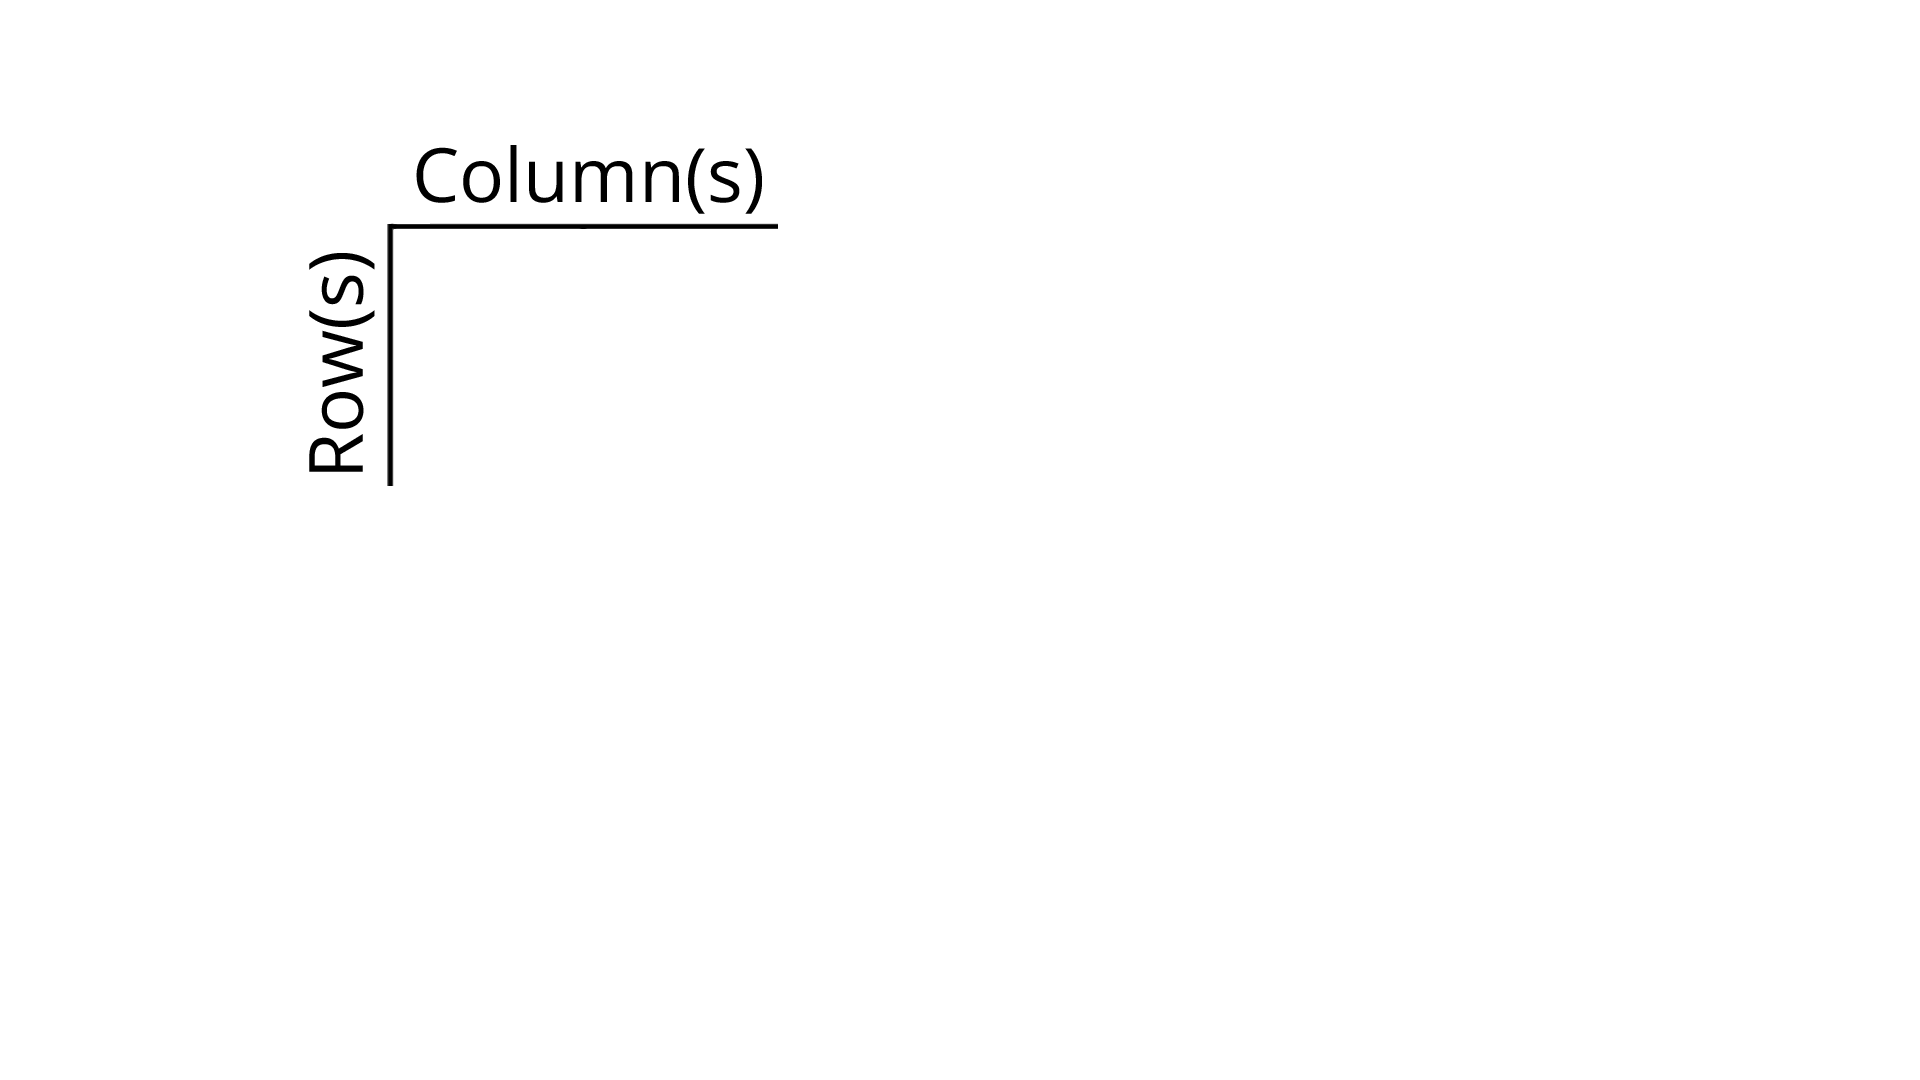
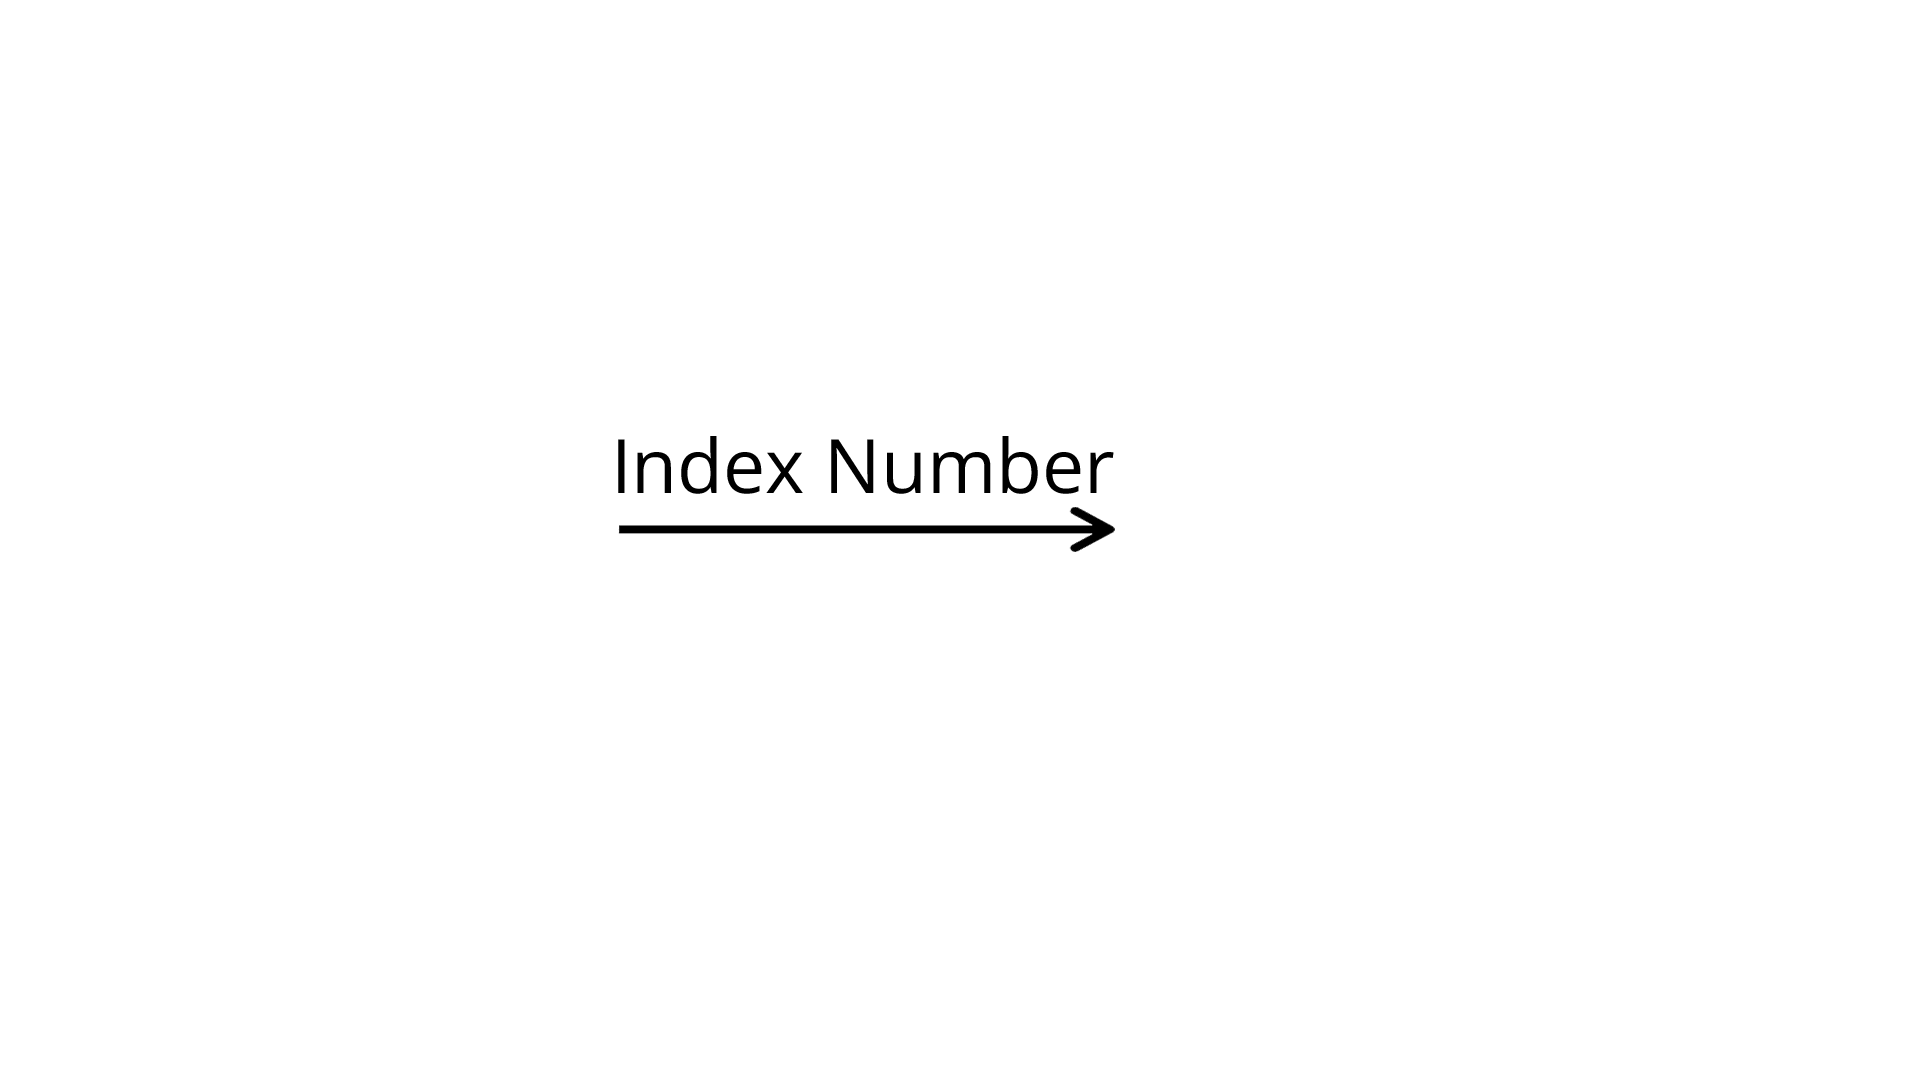
Added dynamic array

Changed region(s): [[0.3125, 0.3972, 0.5938, 0.5194], [0.1562, 0.2139, 0.2188, 0.4583], [0.2188, 0.1222, 0.4062, 0.2139]]

diff --git a/src/components/Array.js b/src/components/Array.js
@@ -1,17 +1,15 @@
-import react from "react";
-import "./Array.css";
-import { useState } from "react";
+import react from 'react';
+import './Array.css';
+import { useState } from 'react';
+
 function Textbox() {
   const [input, setInput] = useState();
   const [error, setError] = useState();
-  const [compDesc, setCompDesc] = useState("");
   const [isHovering, setIsHovering] = useState(false);
   const [isHoveringText, setIsHoveringText] = useState(false);
-  const [arrLab, setArrLab ] = useState();
-  const [row, setRow] = useState();
-  const [column, setColumn] = useState();
-  const [index1, setIndex1] = useState();
-  const [index2, setIndex2] = useState();
+  const [arrLab, setArrLab] = useState();
+  const [column, setColumn] = useState('hide-text');
+  const [array, setArray] = useState('hide-text');
 
   const handleMouseOver = () => {
     setIsHovering(true);
@@ -33,30 +31,22 @@ function Textbox() {
   const handleInput = () => {
     console.log(input);
 
-    if (input == "const array = [1];") {
-      console.log("YESSSS");
+    if (input == 'const array = [1];') {
+      console.log('YESSSS');
       setError(null);
       setArrLab('/images/array-lables.png');
-      setRow('0')
-      setColumn('0')
-      setIndex1('index-1');
-      setIndex2(null);
-    } 
-    else if (input == 'const array = [2];'){
-      setError(null);
-      setArrLab('/images/array-lables.png');
-      setRow('0')
-      setColumn('0')
-      setIndex1('index-1');
-      setIndex2('index-2');
-    }
-
-      else {
-      console.log("NOOOO");
+      setColumn('column');
+      setArray('index');
+    } else {
+      console.log('NOOOO');
       setError('Please Enter enter "const array = [1];"');
       setArrLab(null);
+      setColumn('hide-text');
+      setArray('hide-text');
     }
   };
+
+  const arr = [7, 1, 5, 6, 7, 8]; //need to find a way to take the input between the brackets (parse)
 
   return (
     <>
@@ -73,11 +63,10 @@ function Textbox() {
             <p className="textbox-description">
               *This textbox is acting as a source-code editor. A source-code
               editor is a program that captures and integrates the software code
-              for an application{" "}
+              for an application.{' '}
             </p>
           )}
         </div>
-
 
         <button
           onMouseOver={handleMouseOver}
@@ -88,31 +77,40 @@ function Textbox() {
           Compile
           {isHovering && (
             <p className="compile-description">
-              {" "}
+              {' '}
               *This button is acting as a compiler. A Compiler essentially
               converts the Source Code (the human readable language, in this
               case JavaScript) into Machine Code (the computer readable
-              language). This is how humans and computers generally communicate!
+              language).
             </p>
           )}
         </button>
 
-
         <h1 className="error">{error}</h1>
 
-
-       
-        <h1 className='arr-column'>{column}</h1>
-        <h1 className='arr-row'>{row}</h1>
-        <div className={index1}></div>
-        <div className={index2}></div>
-        <img className='arr-lab' src={arrLab} />
-
-      
-
-
-        
+        {/* <h1 className="arr-column">{column}</h1>
+        <h1 className="arr-row">{row}</h1> */}
+        <div className={array}>
+          {arr.map((currElement, index) => {
+            return (
+              <>
+                <div>{currElement}</div>
+              </>
+            );
+          })}
+          {console.log(inputText)}
+        </div>
+        <div className={column}>
+          {arr.map((currElement, index) => {
+            return (
+              <>
+                <div>{index}</div>
+              </>
+            );
+          })}
+        </div>
       </div>
+      <img className="arr-lab" src={arrLab} />
     </>
   );
 }

diff --git a/src/components/Array.css b/src/components/Array.css
@@ -1,12 +1,12 @@
 .textbox {
-  font-family: "Open Sans", sans-serif;
+  font-family: 'Open Sans', sans-serif;
   position: absolute;
   margin-top: 3%;
   width: auto;
   font-size: 5vw;
 }
 .textbox-description {
-  font-family: "Open Sans", sans-serif;
+  font-family: 'Open Sans', sans-serif;
   position: absolute;
   margin-top: 13%;
   width: 20%;
@@ -15,7 +15,7 @@
 }
 
 .compile {
-  font-family: "Open Sans", sans-serif;
+  font-family: 'Open Sans', sans-serif;
   position: absolute;
   margin-top: 3%;
   margin-left: 70%;
@@ -23,7 +23,7 @@
   font-size: 5vw;
 }
 .compile-description {
-  font-family: "Open Sans", sans-serif;
+  font-family: 'Open Sans', sans-serif;
   position: absolute;
   margin-top: 13%;
   width: 100%;
@@ -32,7 +32,7 @@
 }
 
 .error {
-  font-family: "Open Sans", sans-serif;
+  font-family: 'Open Sans', sans-serif;
   position: absolute;
   margin-top: 25%;
   margin-left: 25%;
@@ -40,45 +40,45 @@
   font-size: 3vw;
 }
 
-
 /******Array Stuff******************************/
 
-.arr-lab{
-  position: flex;
-  margin-top: 15%;
-  margin-left:0%;
-  width: 70vw;
+.arr-lab {
+  position: absolute;
+  margin-top: 5%;
+  margin-left: 25%;
+  width: 50vw;
 }
 
-.arr-column {
+.index {
+  font-size: 1vw;
   position: absolute;
-  margin-top:24%;
-  margin-left:22%;
-  font-size: 2vw;
-}
-.arr-row {
-  position: absolute;
-  margin-top:30%;
-  margin-left:16%;
-  font-size: 2vw;
+  top: 40%;
+  left: 17.5vw;
 }
 
-.index-1 {
-  position: absolute;
-  margin-top:27%;
-  margin-left:18%;
+.index div {
+  text-align: center;
+  line-height: 10vw;
+  display: inline-block;
   width: 10vw;
   height: 10vw;
-  background-color:aquamarine;
-
+  margin: 70px 10px 10px 10px;
+  background: red;
 }
 
-.index-2 {
+.column {
+  font-size: 2vw;
   position: absolute;
-  margin-top:27%;
-  margin-left:30%;
+  top: 30%;
+  left: 21%;
+}
+.column div {
+  display: inline-block;
   width: 10vw;
   height: 10vw;
-  background-color:aquamarine;
+  margin: 85px 10px 10px 10px;
+}
 
+.hide-text {
+  font-size: 0px;
 }

diff --git a/src/App.js b/src/App.js
@@ -1,6 +1,6 @@
-import "./App.css";
-import Description from "./components/Description";
-import Textbox from "./components/Array";
+import './App.css';
+import Description from './components/Description';
+import Textbox from './components/Array';
 import {
   ScrollContainer,
   ScrollPage,
@@ -14,19 +14,19 @@ import {
   ZoomIn,
   ZoomOut,
   Move,
-} from "react-scroll-motion";
+} from 'react-scroll-motion';
 
 const ZoomInScrollOut = batch(StickyIn(), FadeIn(), ZoomIn());
 const FadeUp = batch(Fade(), Sticky(), Move());
 
 const HaveFun = {
-  fontSize: "20vw",
-  textAlign: "center",
+  fontSize: '20vw',
+  textAlign: 'center',
 };
 const Instructions = {
-  fontSize: "2vw",
-  width: "50vw",
-  textAlign: "center",
+  fontSize: '2vw',
+  width: '50vw',
+  textAlign: 'center',
 };
 
 function App() {
